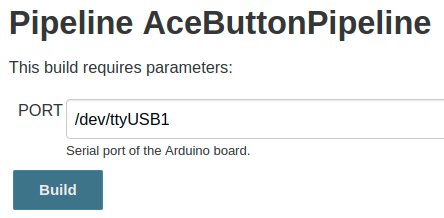
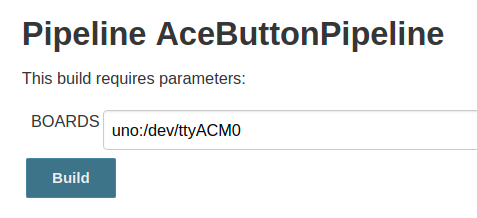
Move AUNITER_ARDUINO_BINARY to Jenkins system configuration; change PORT to BOARDS for more flexibility

diff --git a/jenkins/README.md b/jenkins/README.md
@@ -184,6 +184,20 @@ server, and you can access your machine using a DNS name, then you can set the
 Jenkins URL (Manage Jenkins > Configure System > Jenkins Location > Jenkins URL)
 to be `http://{yourmachine}:8080`.
 
+### Set the Environment Variables
+
+* From the main dashboard page, click on the "Manage Jenkins" link on the left
+nav bar.
+* Click on "Configure System".
+* Under the "Global properties" section about a page down from the top,
+click on the "Environment variables" checkbox.
+    * Click on the "Add" button, and add the following variable:
+        * Name: "AUNITER_ARDUINO_BINARY"
+        * Value: "/var/lib/jenkins/arduino-1.8.5/arduino"
+* Click the "Save" button at the bottom of the page.
+
+![EnvironmentVariables](EnvironmentVars.png)
+
 ## Tutorial: Creating a Jenkins Pipeline
 
 This section is a tutorial on how to create a new Jenkins pipeline. A "pipeline"
@@ -192,6 +206,12 @@ testing one or more Arduino sketches. I have created a Jenkins pipeline for the
 [AceButton](https://github.com/bxparks/AceButton) library, the first Arduino
 library that I ever wrote, which provides button debouncing and event
 dispatching.
+
+I have also assumed that you have an Arduino UNO (or an equivalent clone)
+attached to the serial port, and that the OS has assigned it to the serial port
+`/dev/ttyACM0`. The argument to the `--boards` flag will be set to
+`uno:/dev/ttyACM0`. If you are using another Arduino board, for example an old
+Nano, then the `--board` flag could be something like `nano:/dev/ttyUSB0`.
 
 1. Clone the `AceButton` git repository. Here, I will assume that your
 git repository is located in the `$HOME` directory. If you generally keep
@@ -220,18 +240,18 @@ named "AceButton" otherwise.)
 3. Configure the pipeline
 
 In the **General** section at the top, fill in the serial port of the Arudino
-Nano board that you have connected to. (This step is optional if you don't want
+UNO board that you have connected to. (This step is optional if you don't want
 to run the AUnit tests on the Arduino board.)
 
 * Check the box next to "This project is parameterized". A dialog box opens up.
 * Click on the "Add Parameter" drop down menu and select "String Parameter".
-    * In the "Name" parameter, enter "PORT".
-    * In the "Default Value", enter "/dev/ttyUSB0" or which ever serial
+    * In the "Name" parameter, enter "BOARDS".
+    * In the "Default Value", enter "uno:/dev/ttyACM0" or which ever serial
       port that you have your Arduino UNO or Nano connected to.
       (Use the `auniter.sh --list_ports` if you need to.)
     * In the "Description", enter "Serial port of the Arduino board."
 
-![Port Parameter](PortParameter.png)
+![Boards Parameter](BoardsParameter.png)
 
 Scroll down to the bottom of the configuration page, to the **Pipeline**
 section:
@@ -262,7 +282,7 @@ section:
 4. Start the Build process
 
 * From the left nav bar, click "Build with Parameters" item. It will
-be filled in with the default value "/dev/ttyUSB0". Change this to
+be filled in with the default value "uno:/dev/ttyACM0". Change this to
 something else, or leave it as it is. Then click the "Build" button.
 
 ![Build with Parameters](BuildWithParameters.png)
@@ -283,7 +303,7 @@ The `AceButton/tests/Jenkinsfile` file contains 4 stages:
 * 'Verify Examples': verify `AceButton/examples/*` compile
 * 'Verify Tests': verify `AceButton/examples/*` compile
 * 'Test': upload `AceButton/tests/*Test` to an Arduino Nano board connected to
-`/dev/ttyUSB0`, run the AUnit tests, and verify that they pass or fail
+`/dev/ttyACM0`, run the AUnit tests, and verify that they pass or fail
 
 Normally, you would first verify that the `auniter.sh --test` works successfully
 when you run it on the commmand line. If it works on the command line, then
@@ -301,9 +321,6 @@ Here is the `Jenkinsfile` from the `AceButton` project:
 ```
 pipeline {
     agent { label 'master' }
-    environment {
-        AUNITER_ARDUINO_BINARY = '/var/lib/jenkins/arduino-1.8.5/arduino'
-    }
     stages {
         stage('Setup') {
             steps {
@@ -322,7 +339,7 @@ pipeline {
                 sh "AUniter/auniter.sh --verify \
                     --pref sketchbook.path=$WORKSPACE \
                     --config libraries/AceButton/tests/auniter.conf \
-                    --boards nano \
+                    --boards $BOARDS \
                     libraries/AceButton/examples/*"
             }
         }
@@ -331,7 +348,7 @@ pipeline {
                 sh "AUniter/auniter.sh --verify \
                     --pref sketchbook.path=$WORKSPACE \
                     --config libraries/AceButton/tests/auniter.conf \
-                    --boards nano \
+                    --boards $BOARDS \
                     libraries/AceButton/tests/AceButtonTest"
             }
         }
@@ -340,7 +357,7 @@ pipeline {
                 sh "AUniter/auniter.sh --test \
                     --pref sketchbook.path=$WORKSPACE \
                     --config libraries/AceButton/tests/auniter.conf \
-                    --boards nano:$PORT \
+                    --boards $BOARDS \
                     libraries/AceButton/tests/AceButtonTest"
             }
         }
@@ -354,11 +371,16 @@ The Jenkins service is a master/slave architecture. Since we have only a single
 Jenkins instance, we don't need to define any slaves or nodes, so the `agent {
 label 'master' }` statement tells Jenkins to run all tasks on the master.
 
-### Environment
+### Environment Variables
 
-The `auniter.sh` script needs to be told where to find the Arduino IDE command
-line binary. We installed a new copy of Arduino IDE for the `jenkins` user at
-`/var/lib/jenkins/arduino-1.8.5`.
+The `AUNITER_ARDUINO_BINARY` environment variable required by
+`auniter.sh` is defined using the Jenkins system configuration
+through the web tool.
+
+### Build with Parameters
+
+The `$BOARDS` variable was defined in the Pipeline configuration above
+with the "This project is parameterized" checkbox option.
 
 ### Stages
 
@@ -368,11 +390,6 @@ I separated out the continuous integration into 4 stages:
 * `Verify Tests` - compile all AUnit tests under `AceButton/tests/`
 * `Test` - upload the AUnit test to an Arduino Nano on the local machine
 and validate the test output
-
-### Build with Parameters
-
-The `$PORT` variable was defined in the Pipeline configuration above
-with the "This project is parameterized" checkbox option.
 
 ### Folder Layout
 
